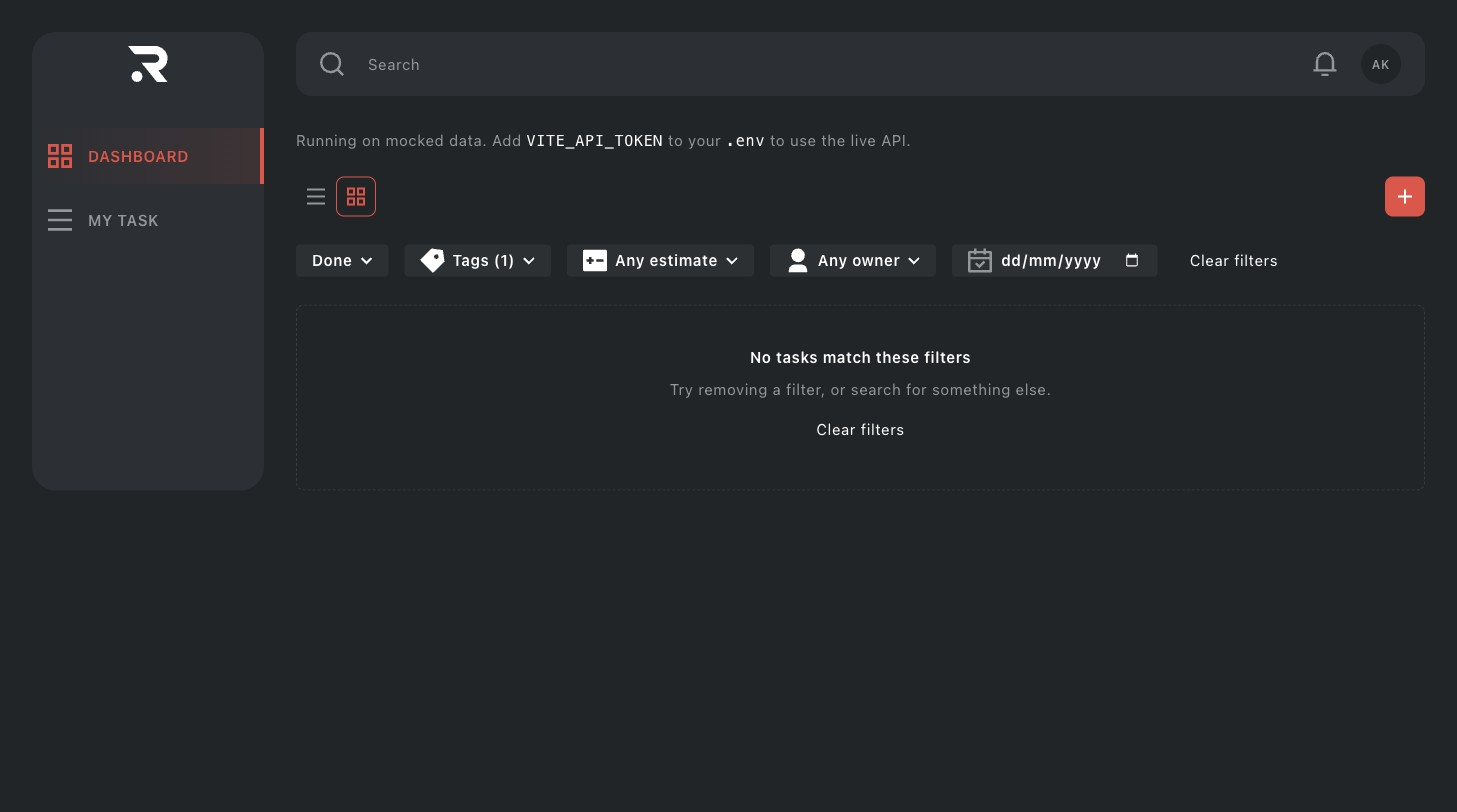
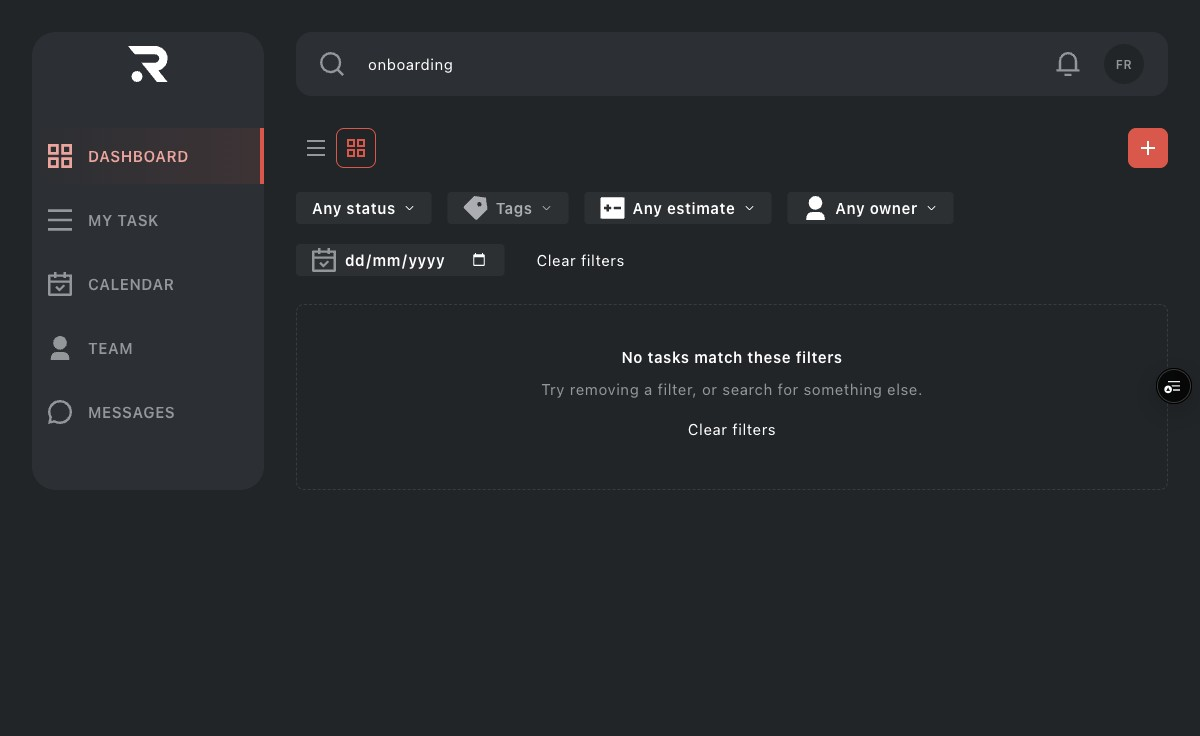
docs: recapture the screenshots this branch made stale
Review finding 2: the README is the graded front door, and its images
contradicted prose added by this same PR. `dashboard.jpg` showed a sidebar of
two items against prose promising five, and neutral grey due-date badges
against a bonus section rewritten to say green.

It was wider than the finding. Every one of the five shows the sidebar, so
every one was stale on the nav count; `dashboard` and `list-view` were stale
on the badge colour too. All five recaptured from this branch's own Vercel
preview at 1457x812, matching the originals exactly.

Two things the recapture surfaced that the finding did not:

`list-view.jpg` had a card named "Kit select smoke test" legible in the
Backlog section - e2e debris another lane left on RAVN's shared board, which
`deployed-proxy.spec.ts` is meant to clean up after itself. Deleted, with
authorisation, and only that one: the guard asserted exactly one name match
and a matching id before writing. The "Fer" card was deliberately left alone.
It is plausibly seeded data or another candidate's row, and deleting someone
else's work from a shared board is not this lane's call.

`settings.jpg` renders the profile's email, and the API's seeded profile is a
real person at RAVN. The address is masked to `[email redacted]` in the image
rather than published in a public repository. That is disclosed in the README
beside the image, not only here, because the README is what gets read. No
other pixel in any screenshot is altered.
[…]

diff --git a/README.md b/README.md
@@ -59,7 +59,12 @@ switch on.
 | ![Creating a task](docs/screenshots/create-task.jpg) | ![No results](docs/screenshots/empty-results.jpg) |
 | Creating a task                                      | Filters that match nothing                        |
 | ![Settings](docs/screenshots/settings.jpg)           | ![List layout](docs/screenshots/list-view.jpg)    |
-| The signed-in user                                   | The list layout                                   |
+| The signed-in user — email redacted, see below       | The list layout                                   |
+
+The email field in that screenshot reads `[email redacted]`. The API's seeded profile is a real
+person at RAVN, and this repository is public, so the address is masked in the image rather than
+published in it. Nothing else in any screenshot is altered — they are captures of the deployed
+build against the live API.
 
 - **Board** — five status columns, task cards with name, tags, due date, points, assignee
   and an options menu. Loading, error and empty states are three distinct things.
